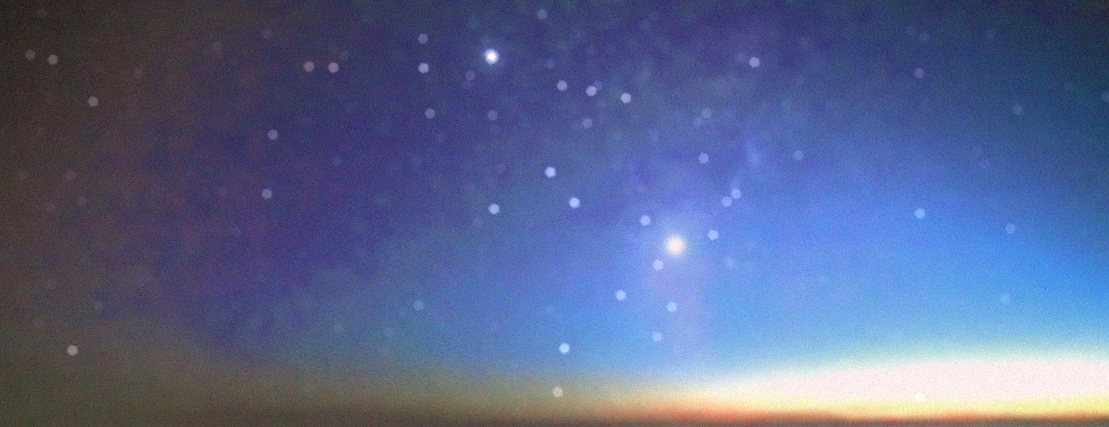
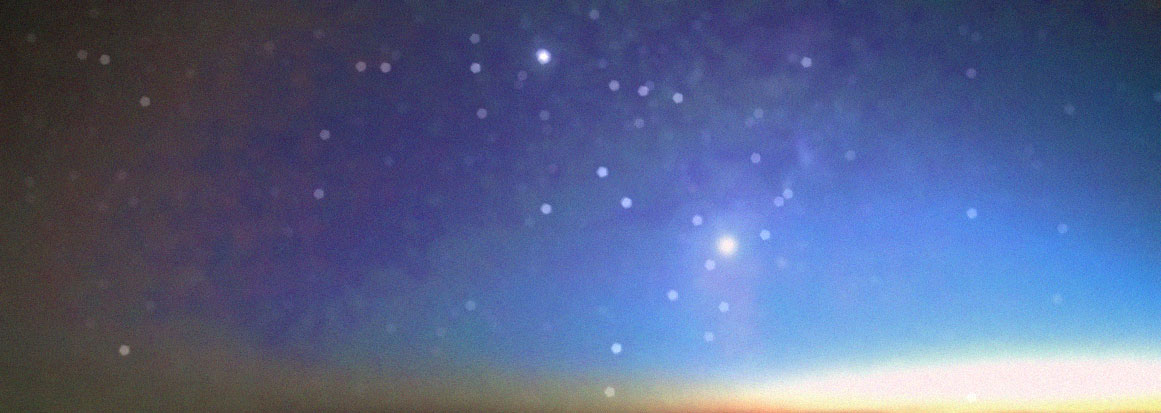
LGTM

diff --git a/assets/main.css b/assets/main.css
@@ -2,7 +2,7 @@ body {
     background: rgb(250,250,250);
     color: #222;
     font-size: 1.2em;
-    font-family: 'Lato', 'Arial', sans-serif;
+    font-family: 'Segoe UI', 'Myriad Pro', 'Arial', sans-serif;
     min-width: 300px;
     line-height: 2em;
     padding: 0;
@@ -57,16 +57,8 @@ hr {border: 0; height: 0; border-top: 2px solid rgba(0,0,0,0.1); margin: 0;}
     clear: both;
 }
 
-main {
-    max-width: 55em;
-    margin: 2.5em auto;
-    font-family: 'EB Garamond', 'Georgia', serif;
-}
-
-main h1, main h2, main h3, main .h3 {text-shadow: 0 2px 0 #9CD6E0;}
-
 header {
-    background: linear-gradient(to bottom, rgba(69,150,218,0.7), rgba(128,169,171,0.7)), url(img/starbg.jpg) center top #80A9AB;
+    background: url(img/starbg.jpg) center center #80A9AB; /* linear-gradient(to bottom, rgba(69,150,218,0.7), rgba(128,169,171,0.7)) */
     background-size: cover;
     text-align: center;
     overflow: hidden;
@@ -86,55 +78,101 @@ header svg {
 }
 
 header svg path {
-    stroke-dasharray: 100;
-    stroke-dashoffset: 100;
     stroke-linecap: round;
     stroke-linejoin: round;
     stroke-width: 2px;
     stroke: rgb(240,240,240);
     fill: none;
+}
+body:not(.ie) header svg path {
+    stroke-dasharray: 100;
+    stroke-dashoffset: 100;
     -webkit-animation: dash 1.5s ease-out forwards;
     animation: dash 1.5s ease-out forwards;
     opacity: 0;
 }
 
-header svg path.a1 {stroke-dasharray: 60; stroke-dashoffset: 60;}
-header svg path.a1s {stroke-dasharray: 10; stroke-dashoffset: 10;}
-header svg path.b {stroke-dasharray: 60; stroke-dashoffset: 60;}
-header svg path.r {stroke-dasharray: 25; stroke-dashoffset: 25;}
-header svg path.a2 {stroke-dasharray: 40; stroke-dashoffset: 40;}
-header svg path.h {stroke-dasharray: 60; stroke-dashoffset: 60;}
-header svg path.a3 {stroke-dasharray: 40; stroke-dashoffset: 40;}
-header svg path.m {stroke-dasharray: 50; stroke-dashoffset: 50;}
-header svg path.y {stroke-dasharray: 150; stroke-dashoffset: 150;}
-header svg path.u {stroke-dasharray: 40; stroke-dashoffset: 40;}
-header svg path.e {stroke-dasharray: 40; stroke-dashoffset: 40;}
-header svg path.n {stroke-dasharray: 40; stroke-dashoffset: 40;}
+body:not(.ie) header svg path.a1 {stroke-dasharray: 60; stroke-dashoffset: 60;}
+body:not(.ie) header svg path.a1s {stroke-dasharray: 10; stroke-dashoffset: 10;}
+body:not(.ie) header svg path.b {stroke-dasharray: 60; stroke-dashoffset: 60;}
+body:not(.ie) header svg path.r {stroke-dasharray: 25; stroke-dashoffset: 25;}
+body:not(.ie) header svg path.a2 {stroke-dasharray: 40; stroke-dashoffset: 40;}
+body:not(.ie) header svg path.h {stroke-dasharray: 60; stroke-dashoffset: 60;}
+body:not(.ie) header svg path.a3 {stroke-dasharray: 40; stroke-dashoffset: 40;}
+body:not(.ie) header svg path.m {stroke-dasharray: 50; stroke-dashoffset: 50;}
+body:not(.ie) header svg path.y {stroke-dasharray: 150; stroke-dashoffset: 150;}
+body:not(.ie) header svg path.u {stroke-dasharray: 40; stroke-dashoffset: 40;}
+body:not(.ie) header svg path.e {stroke-dasharray: 40; stroke-dashoffset: 40;}
+body:not(.ie) header svg path.n {stroke-dasharray: 40; stroke-dashoffset: 40;}
 
 @-webkit-keyframes dash {to {stroke-dashoffset: 0; opacity: 1;}}
 @keyframes dash {to {stroke-dashoffset: 0; opacity: 1;}}
 
 nav {
     text-align: center;
-    background: #B2DBDD;
     color: #FFF;
     position: relative;
     max-width: 55em;
     margin: 0 auto;
 }
-nav .wrapper {background: #B2DBDD;}
-nav.fixed .wrapper {
-    position: fixed;
-    max-width: none;
-    top: 0;
-    left: 0;
-    right: 0;
+
+nav ul {margin: 0; padding: 0;}
+nav li {
+    display: inline-block;
+    font-family: 'Fjalla One', sans-serif;
+    font-size: 1.5em;
+    letter-spacing: -1px;
+    text-shadow: 0 2px 0 rgba(0,0,0,0.4);
 }
-nav ul {margin: 0;}
-nav li {display: inline-block;}
-nav li a {padding: 0.5em 1.25em; display: block; color: #FFF;}
-nav li.logo {float: left; margin: 0.5em 0; position: absolute; display: block; opacity: 0; text-transform: uppercase; font-size: .85em; line-height: 2.75em;}
-nav.fixed li.logo {opacity: 1; transition: opacity 0.5s ease;}
+nav li a {
+    padding: 0.5em 1.25em 1em;
+    display: block;
+    color: #FFF;
+}
+nav li.logo {
+    float: left;
+    margin: 0.75em 1.25em 0;
+    position: absolute;
+    display: block;
+    opacity: 0;
+    font-size: 1em;
+}
+
+@media only screen and (min-width: 600px) {
+    nav.fixed .wrapper {
+        /*background: url(img/starbg.jpg) center top #1C2F42;*/
+        background: #1C2F42;
+        background-size: cover;
+        transition: background 0.5s ease;
+        -webkit-transition: background 0.5s ease;
+        position: fixed;
+        max-width: none;
+        top: 0;
+        left: 0;
+        right: 0;
+    }
+    nav.fixed li a {
+        padding-bottom: 0.5em;
+        -webkit-transition: padding 0.5s ease;
+        transition: padding 0.5s ease;
+    }
+}
+@media only screen and (min-width: 980px) {
+    nav.fixed li.logo {
+        opacity: 1;
+        -webkit-transition: opacity 0.5s ease;
+        transition: opacity 0.5s ease;
+    }
+}
+
+main {
+    max-width: 57em;
+    margin: 2.5em auto;
+    padding: 0 2.5em;
+    font-family: 'EB Garamond', 'Georgia', serif;
+}
+
+main h1, main h2, main h3, main .h3 {text-shadow: 0 2px 0 #9CD6E0;}
 
 section {margin: 2.5em auto;}
 /*section h1 {border-top: 2px solid rgba(0,0,0,0.1); padding: 1em 0 0.5em;}*/
@@ -151,7 +189,10 @@ section.works .item {
     float: left;
     margin: 1em 0;'
 }
-section.works .item img {float: left; margin: 0 1em 0 0;}
+section.works .item h3 {margin: 0.01em 0 0;}
+section.works .item h3 a {color: #466067;}
+section.works .item img {float: left; margin: 0 1em 0 0; width: 200px; height: 200px;}
+section.works .item:nth-of-type(even) img {margin-left: 1em;}
 
 section.links ul {padding: 0 0 0 20px;}
 
@@ -170,21 +211,16 @@ footer h3 {margin: 0;}
 
 /* Responsive */
 @media only screen and (max-width: 599px) {
-    body {padding: 0;}
-    header {height: auto; padding: 2em 0;}
-    header svg {width: 80%; margin: 1em 0 -1em;}
-    main {width: 80%;}
-    footer {}
-
-    section.half, section.works .item {width: auto;}
-    section.works .item {float: none; text-align: center;}
-    section.works .item img {float: none; margin: 1em;}
+    header svg {width: auto; margin: 2.5em 2.5em 0.5em;}
+    nav {height: auto !important;}
 }
 
 @media only screen and (min-width: 600px) and (max-width: 979px) {
-    body {}
-    footer {}
+    header svg {margin: 2.5em 2.5em 1.5em;}
+    section.half {width: 65%;}
 }
-
-@media only screen and (max-width: 599px) {
+@media only screen and (max-width: 979px) {
+    section.half, section.works .item {width: auto;}
+    section.works .item {float: none; text-align: center;}
+    section.works .item img {float: none; margin: 1em;}
 }

diff --git a/index.html b/index.html
@@ -16,7 +16,7 @@ Cat
         <meta name="viewport" content="width=device-width">
         <title>Abraham Yuen</title>
         <meta name="description" content="The personal site of Abraham Yuen. Appreciating developing, designing, and programming.">
-        <link href="http://fonts.googleapis.com/css?family=Fjalla+One|Lato|EB+Garamond" rel="stylesheet" type="text/css">
+        <link href="http://fonts.googleapis.com/css?family=Fjalla+One|EB+Garamond" rel="stylesheet" type="text/css">
         <link rel="stylesheet" href="assets/normalize.css">
         <link rel="stylesheet" href="assets/main.css">
     </head>
@@ -43,8 +43,8 @@ Cat
                 <ul class="wrapper">
                     <li class="logo">Abraham Yuen</li>
                     <li><a href="#">About</a></li>
-                    <li><a href="#">Works &amp; Projects</a></li>
-                    <li><a href="#">Contact</a></li>
+                    <li><a href="#worksandprojects">Works &amp; Projects</a></li>
+                    <li><a href="#contact">Contact</a></li>
                 </ul>
             </nav>
         </header>
@@ -53,7 +53,7 @@ Cat
 
         <main>
             <section class="about half">
-                <p><span class="h3">I'm</span> Abraham Yuen, a student currently at the University of Florida. Appreciating developing, designing, programming—this is where I document the creative creations of mine.</p>
+                <p><span class="h3">I'm</span> Abraham Yuen, a student currently at the <a href="http://www.ufl.edu/" target="_blank">University of Florida</a>. Appreciating developing, designing, programming— this is where I document the creative creations of mine.</p>
                 <hr>
 
                 <h3>Currently</h3>
@@ -69,31 +69,31 @@ Cat
                 <p>Reach me by <a href="mailto:contact@abrahamyuen.com">email</a>.</p>
             </section>
 
-            <hr>
+            <hr id="worksandprojects">
 
             <section class="works">
                 <h1 class="align-center">Works &amp; Projects</h1>
 
                 <div class="item">
-                    <img src="http://unsplash.it/200?image=7">
-                    <h3>Bowafishtech</h3>
-                    <p>Profesional front for projects.</p>
+                    <img src="assets/img/bft.png">
+                    <h3><a href="http://www.bowafishtech.org/" target="_blank">Bowafishtech</a></h3>
+                    <p>Personal professional front for projects in use by the public.</p>
                 </div>
 
                 <div class="item">
-                    <img src="http://unsplash.it/200?image=8">
-                    <h3>BetterGaia</h3>
+                    <img src="assets/img/bettergaia.png">
+                    <h3><a href="http://www.bettergaia.com/" target="_blank">BetterGaia</a></h3>
                     <p>Browser extension for Gaia Online, a social networking website. Since August 2008.</p>
                 </div>
 
                 <div class="item">
-                    <img src="http://unsplash.it/200?image=9">
-                    <h3>Association of Cuban Student Engineers at the University of Florida</h3>
-                    <p>With no definite wordmark, created new branding to promote with starting Fall of 2014.</p>
+                    <img src="assets/img/acse.jpg">
+                    <h3>Association of Cuban Student Engineers</h3>
+                    <p>With no definite word mark, helped created new branding to use starting Fall 2014.</p>
                 </div>
             </section>
 
-            <hr>
+            <hr id="contact">
 
             <section class="links half">
                 <h1 class="align-center">Et cetera</h1>

diff --git a/assets/main.js b/assets/main.js
@@ -1,3 +1,7 @@
+if (navigator.userAgent.indexOf("MSIE") > -1) {
+    document.body.classList.add("ie10");
+}
+
 $(document).ready(function() {
     $('nav').height($('nav .wrapper').outerHeight());
     NavOffset = $('nav').offset().top;
